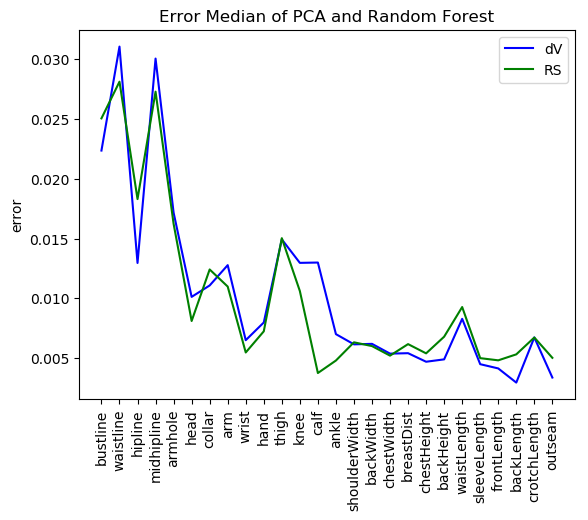
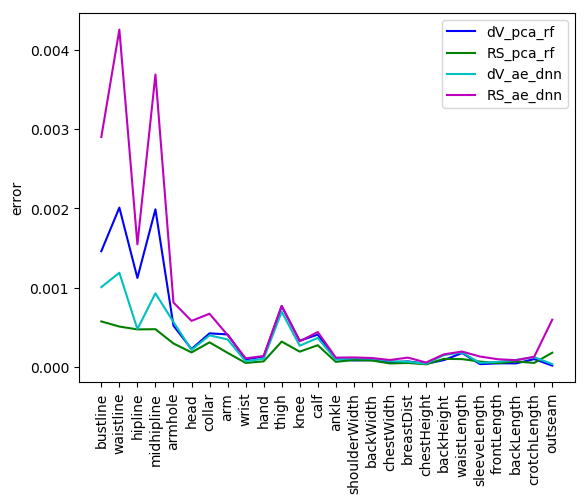
evaluate and augmentation

diff --git a/semantic_body/python/evaluate.py b/semantic_body/python/evaluate.py
@@ -36,10 +36,10 @@ def median(a, b, ax):
 
 from sklearn import metrics
 print(MSE(prExact[:, 0], rawExact[:, 0], 0))
-y_dv = MSE(prExact, rawExact, 0)
-y_rs = MSE(rsprExact, rawExact, 0)
-y_dv_ad = MSE(adExact, rawExact, 0)
-y_rs_ad = MSE(rsadExact, rawExact, 0)
+y_dv = median(prExact, rawExact, 0)
+y_rs = median(rsprExact, rawExact, 0)
+y_dv_ad = median(adExact, rawExact, 0)
+y_rs_ad = Mean(rsadExact, rawExact, 0)
 print(y_dv.shape)
 
 print("MSE dv:")
@@ -47,15 +47,15 @@ print(metrics.mean_squared_error(prExact, rawExact))
 
 print("MSE RS:")
 print(metrics.mean_squared_error(rsprExact, rawExact))
-print(MSE(rsprExact, rawExact, (0, 1)))
-print(MSE(adExact, rawExact, (0, 1)))
-print(MSE(rsadExact, rawExact, (0, 1)))
+print(Mean(rsprExact, rawExact, (0, 1)))
+print(Mean(adExact, rawExact, (0, 1)))
+print(Mean(rsadExact, rawExact, (0, 1)))
 x = np.arange(0, cols)
 
 plt.plot(x, y_dv, label='dV_pca_rf', color='b')
 plt.plot(x, y_rs, label='RS_pca_rf', color='g')
 plt.plot(x, y_dv_ad, label='dV_ae_dnn', color='c')
-plt.plot(x, y_rs_ad, label='RS_ae_dnn', color='m')
+# plt.plot(x, y_rs_ad, label='RS_ae_dnn', color='m')
 plt.ylabel('error')
 # idx = 40
 # print(rsprExact[idx, :])
@@ -63,7 +63,7 @@ plt.ylabel('error')
 # plt.plot(x, prExact[idx, :], label='dV', color='b')
 # plt.plot(x, rsprExact[idx, :], label='RS', color='g')
 # plt.plot(x, adExact[idx, :], label='DNN', color='c')
-# plt.title('MSE of PCA and Random Forest')
+plt.title('Median')
 plt.legend(loc='best')
-# plt.savefig('../images/chartgraph/error_median_pca_randomforest.png',bbox_inches='tight')
+plt.savefig('../images/chartgraph/Median.png',bbox_inches='tight')
 plt.show()

diff --git a/semantic_body/main.cpp b/semantic_body/main.cpp
@@ -152,8 +152,18 @@ void testSophus() {
 int main()
 {
 	clock_t t = clock();
-	saveBinaryFRS();
+	//saveBinaryFRS();
+	Eigen::Matrix3d A;
+	A << 1, 5, 6, 2, 4, 8, 3, 7, 9;
+	cout << "A = " << A << endl << endl;
+	Eigen::JacobiSVD<Eigen::MatrixXd> svd(A, Eigen::ComputeThinU | Eigen::ComputeThinV);
+	Eigen::Matrix3d U = svd.matrixU();
+	Eigen::Matrix3d V = svd.matrixV();
+	Eigen::Matrix3d S = U.transpose() * A * V;
 
+	cout << "U = " << U << endl << endl;
+	cout << "V = " << V << endl << endl;
+	cout << "S = " << S << endl << endl;
 	
 	cout << (double)(clock() - t) / CLOCKS_PER_SEC << "seconds..." << endl;
 	getchar();

diff --git a/semantic_body/python/augmentation.py b/semantic_body/python/augmentation.py
@@ -1,0 +1,8 @@
+
+from sklearn.externals import joblib
+import numpy as np
+
+model = joblib.load('../export/logrs_randomforest.joblib')
+pca = joblib.load('../export/logrs_pca_450c.joblib')
+
+data = []
